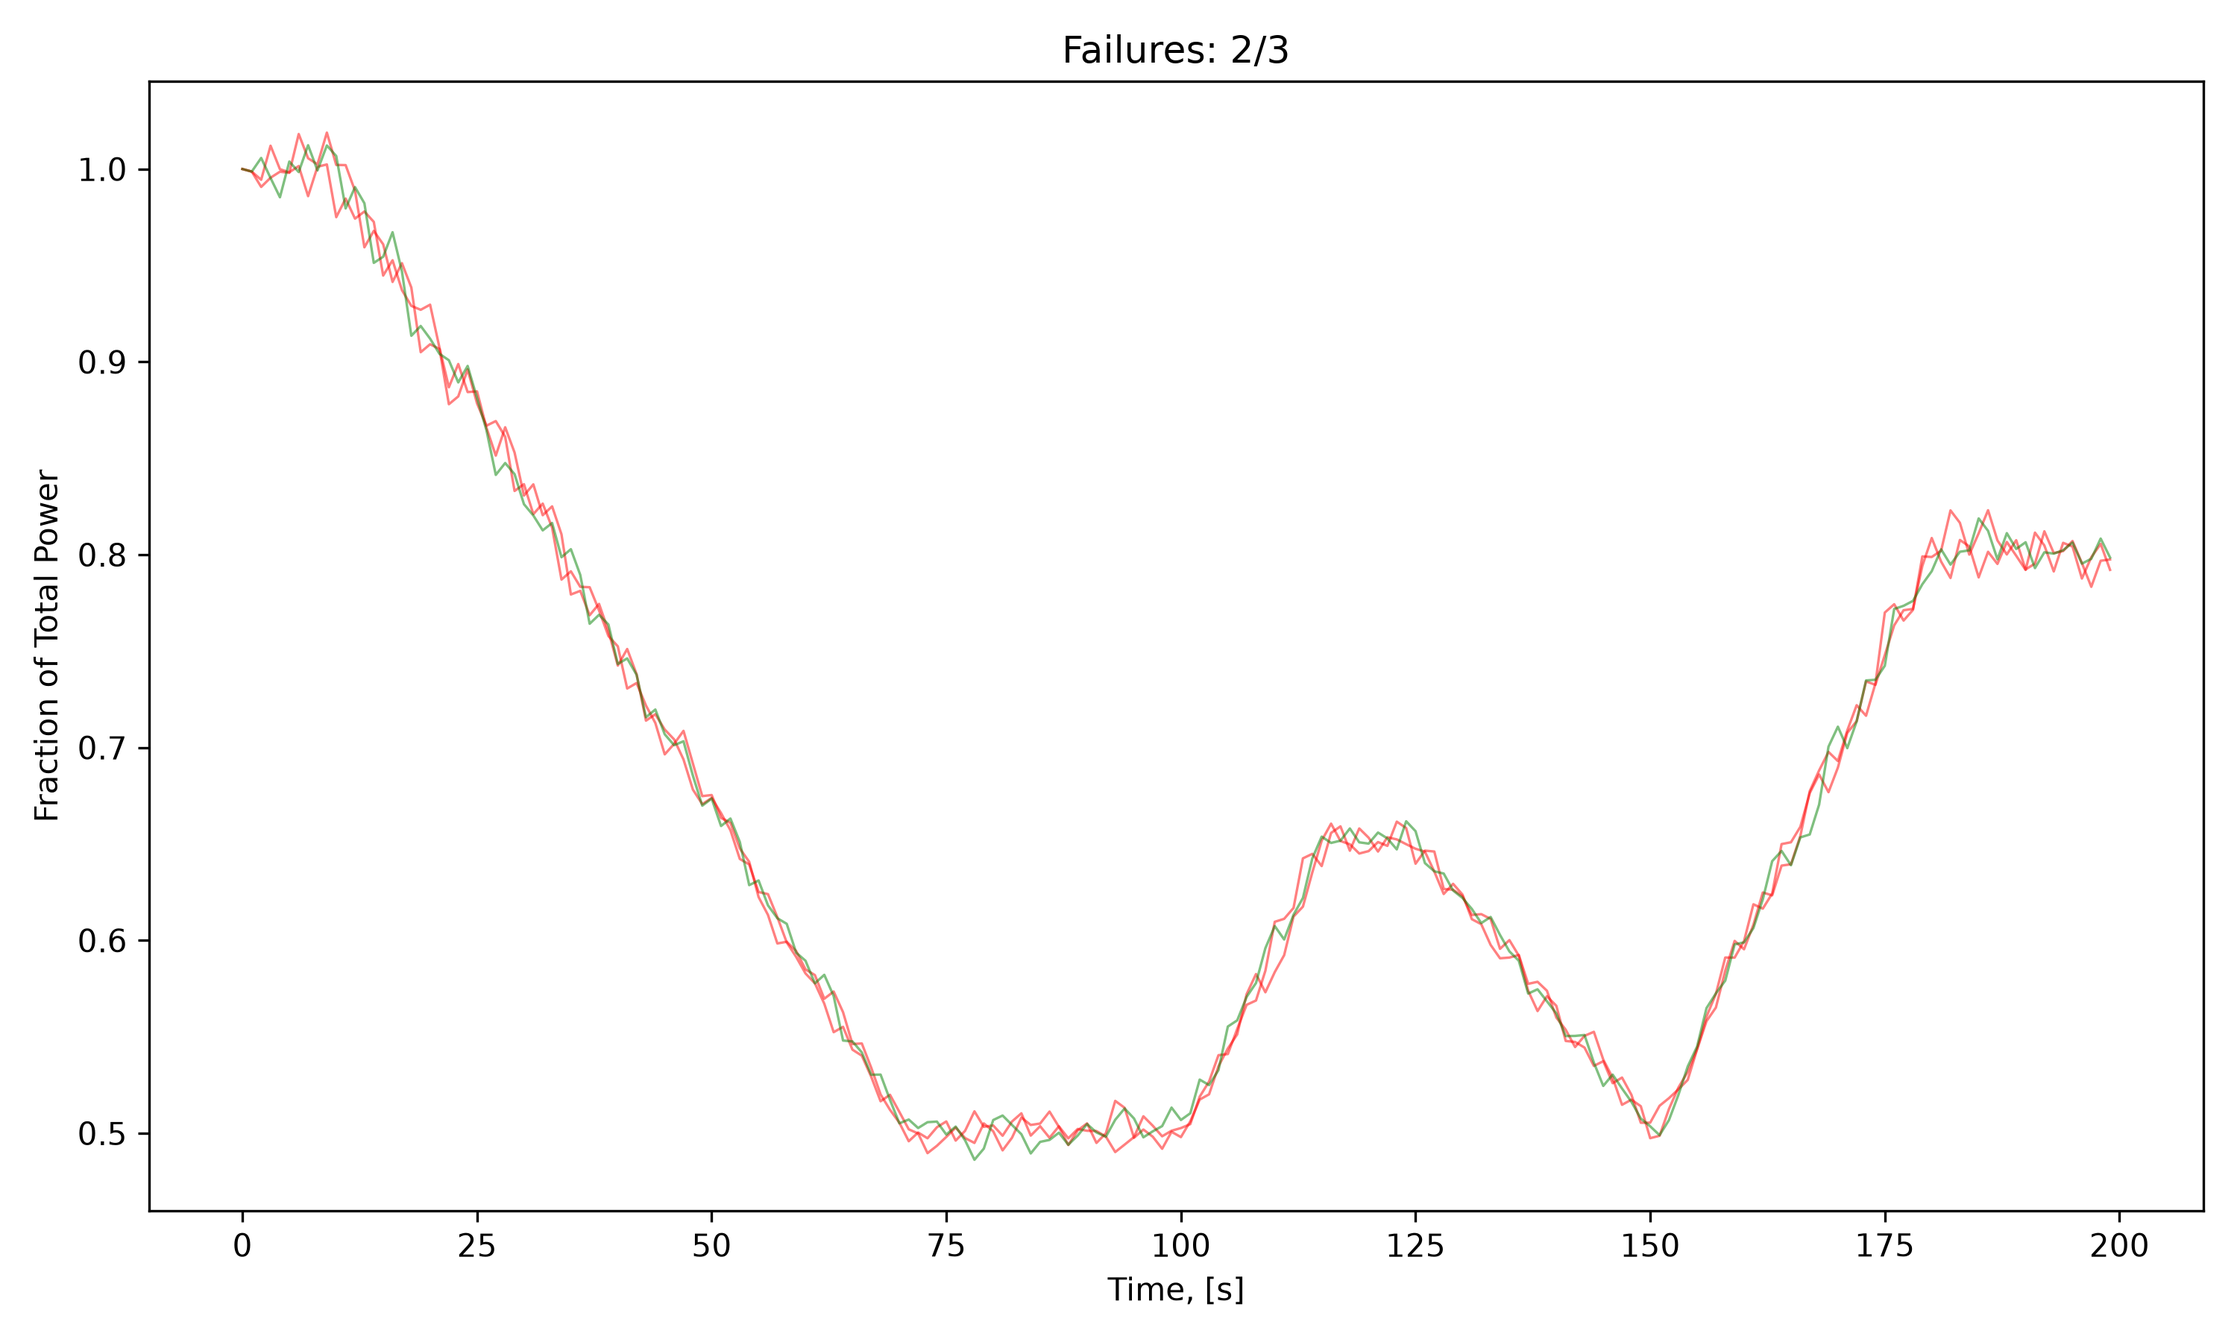
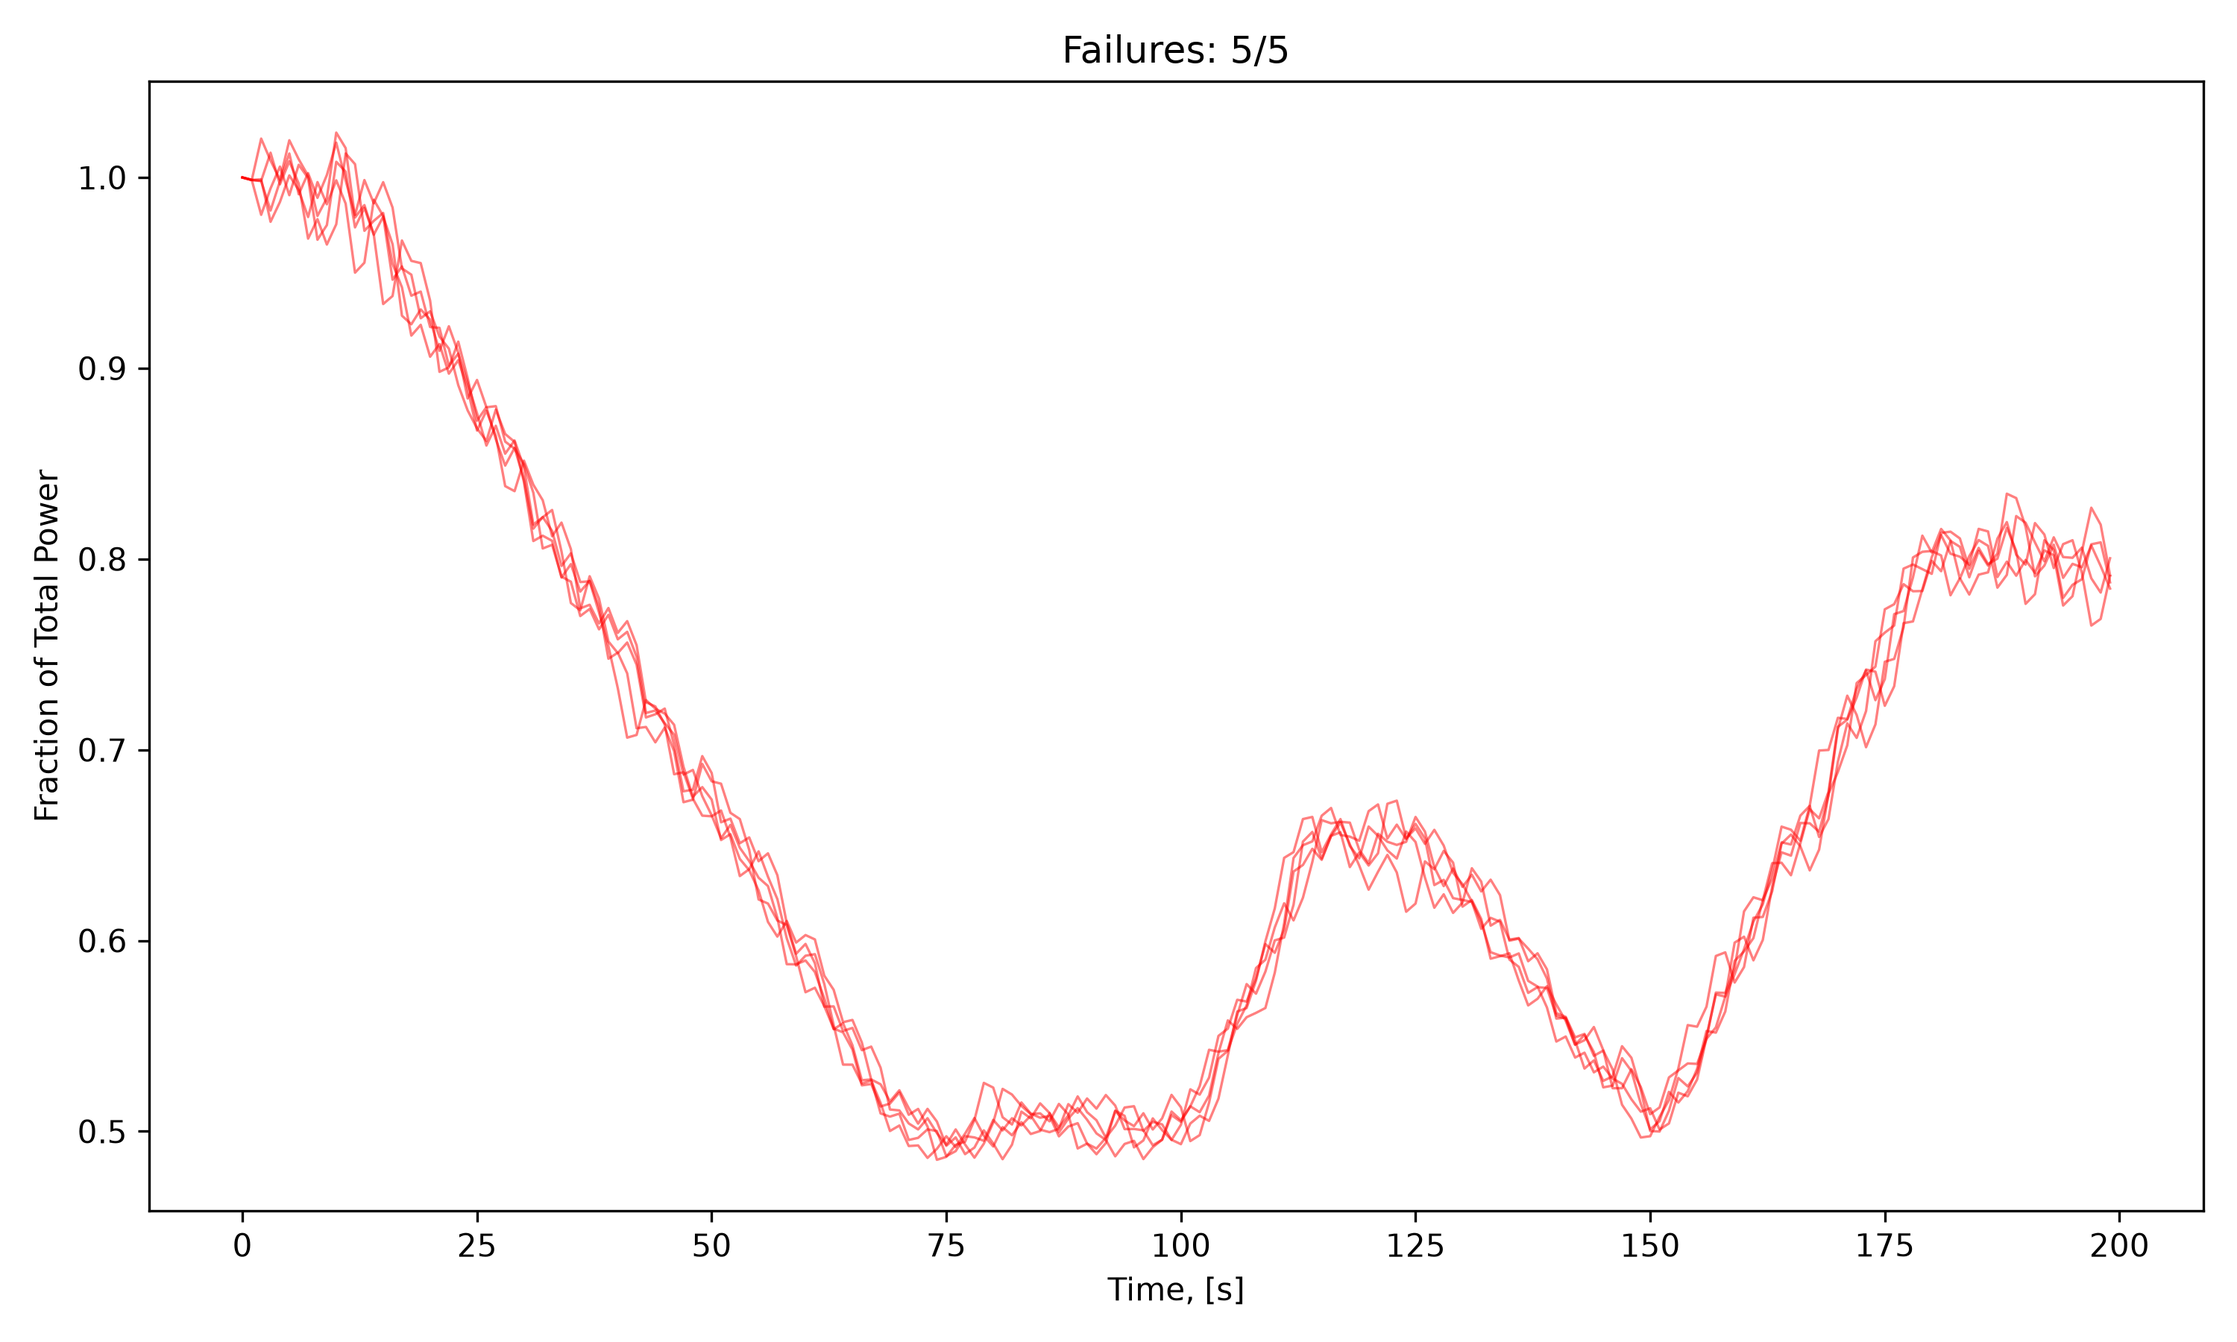
adds rollout from snapshot and fixes test_loops

diff --git a/workflow/scripts/tests/test_loops.py b/workflow/scripts/tests/test_loops.py
@@ -15,6 +15,7 @@ import env
 from scipy.interpolate import interp1d
 from functools import partial
 from env import make_undisturbed_env
+import profiles
 
 
 # ---------------------------------------------------------------------------
@@ -172,10 +173,10 @@ def test_rollout_applies_observation_noise(tmp_path):
     )
 
     seen = []
-    real_get_observation = partial(test_env._get_observation, reset=False)
-    def spy(xo):
-        obs = real_get_observation(xo)
-        seen.append((obs["p"][0], test_env._p))  # (observed, true) at this instant
+    real_get_observation = test_env._get_observation
+    def spy(xo, reset=False):
+        obs = real_get_observation(xo, reset=reset)
+        seen.append((obs["p"][0], test_env._p))
         return obs
     test_env._get_observation = spy
 
@@ -195,33 +196,111 @@ def test_test_trained_rl_orchestrates_load_run_and_metrics(tmp_path, env_kwargs)
     fake_history = pd.DataFrame({"time": [0, 1], "actual_power": [1.0, 1.0]})
     mock_disturbance_dist = MagicMock()
 
-    with patch("loops.find_latest_file") as mock_find_latest, patch(
-        "loops.sb3.PPO.load"
-    ) as mock_ppo_load, patch("loops.rollout") as mock_control_loop, patch(
-        "loops.metrics", return_value=(0.1, 0.2, 0.3, 0.4)
-    ) as mock_calc_metrics, patch(
-        "loops.pd.read_csv", return_value=fake_history
-    ) as mock_read_csv:
+    with patch("loops.load_trained_model") as mock_load_model, \
+         patch("loops.find_latest_file") as mock_find_latest, \
+         patch("loops.rollout") as mock_control_loop, \
+         patch("loops.metrics", return_value=(0.1, 0.2, 0.3, 0.4)) as mock_calc_metrics, \
+         patch("loops.pd.read_csv", return_value=fake_history) as mock_read_csv:
 
-        mock_find_latest.side_effect = [
-            tmp_path / "models" / "best_model.zip",
-            tmp_path / "run_history_001.csv",
-        ]
         mock_model = MagicMock()
-        mock_ppo_load.return_value = mock_model
+        mock_load_model.return_value = mock_model
+        mock_find_latest.return_value = tmp_path / "run_history_001.csv"
 
         result = loops.test_trained_rl(
             DummyDictEnv, load_dir, save_dir, env_kwargs, mock_disturbance_dist, save_histories=True
         )
 
-        mock_find_latest.assert_has_calls([
-            call(tmp_path / "models", pattern="*.zip"),
-            call(tmp_path, pattern="run_history*.csv"),
-        ])
-        mock_ppo_load.assert_called_once_with(
-            tmp_path / "models" / "best_model.zip", device="cpu"
+        mock_load_model.assert_called_once_with(load_dir)
+        mock_control_loop.assert_called_once_with(
+            mock_model, ANY, mock_disturbance_dist, save_histories=True
         )
-        mock_control_loop.assert_called_once_with(mock_model, ANY, mock_disturbance_dist)
+        mock_find_latest.assert_called_once_with(tmp_path, pattern="run_history*.csv")
         mock_read_csv.assert_called_once_with(tmp_path / "run_history_001.csv")
         mock_calc_metrics.assert_called_once_with(fake_history)
         assert result is fake_history
+
+# ---------------------------------------------------------------------------
+# test_rollout_from_snapshot
+# ---------------------------------------------------------------------------
+
+class StubPolicy:
+    """Deterministic policy that depends on the observation (so a wrong restored obs changes the result)."""
+
+    def predict(self, obs, deterministic=True):
+        err = float(obs["pnext"][0] - obs["p"][0]) - 2.0 * float(obs["dp"][0])
+        return np.full(8, np.clip(5 * err, -1, 1), dtype=np.float32), None
+
+
+def full_run_max_dev(env, model, dist):
+    """Reference: plain reset-to-end rollout, deviation from env.history like check_spec does."""
+    obs, _ = env.reset()
+    np.random.seed(0)
+    done = False
+    while not done:
+        action, _ = model.predict(obs, deterministic=True)
+        x = dist.sample(env.state, action)
+        obs, _, term, trunc, _ = env.step(action, x)
+        done = term or trunc
+    df = env.render(save=False)
+    max_dev = float(np.abs((df["actual_power"] - df["desired_power"]) / df["desired_power"]).max())
+    return max_dev, env.state.copy()
+
+
+def check_rollout_from_snapshot(env, model, dist, mid_step=30):
+    profile = env.profile
+    expected, final_state = full_run_max_dev(env, model, dist)
+
+    # 1) root snapshot reproduces a plain full rollout
+    env.reset()
+    snap0 = env.get_snapshot()
+    np.random.seed(0)
+    md, n = loops.rollout_from_snapshot(env, model, snap0, dist, 0)
+    assert md == pytest.approx(expected, rel=1e-6)
+    assert n == env.runtime  # one simulator step per second, dt=1
+    assert np.allclose(env.state, final_state)  # final state is sensitive to every action taken
+
+    # 2) a mid-trajectory snapshot plus start_max reproduces the same result
+    obs, _ = env.reset()
+    np.random.seed(0)
+    mid_max = 0.0
+    for _ in range(mid_step):
+        action, _ = model.predict(obs, deterministic=True)
+        obs, *_ = env.step(action, dist.sample(env.state, action))
+        print(f"PROFILE: {profile(env.time)}")
+        mid_max = max(mid_max, abs(env._p - profile(env.time)) / profile(env.time))
+    snap_mid = env.get_snapshot()
+    rng = np.random.get_state()
+    obs_back = env.set_snapshot(snap_mid)  # restore should hand back the obs saved with the snapshot
+    for k in obs:
+        assert np.array_equal(obs_back[k], obs[k]), k
+
+    np.random.set_state(rng)
+    md_mid, n_mid = loops.rollout_from_snapshot(env, model, snap_mid, dist, mid_max)
+    assert md_mid == pytest.approx(expected, rel=1e-6)
+    assert n_mid == env.runtime - mid_step
+    assert np.allclose(env.state, final_state)
+
+    # 3) determinism: same snapshot + same RNG state gives an identical result, and the snapshot is not corrupted
+    np.random.set_state(rng)
+    md_again, _ = loops.rollout_from_snapshot(env, model, snap_mid, dist, mid_max)
+    assert md_again == md_mid
+
+    # 4) a snapshot at the end of the episode does nothing
+    md_end, n_end = loops.rollout_from_snapshot(env, model, env.get_snapshot(), dist, 0.123)
+    assert (md_end, n_end) == (0.123, 0)
+
+
+def test_rollout_from_snapshot_stub(tmp_path):
+    profile = interp1d([0, 10, 70, 100, 115, 125, 150, 180, 200],
+                       [1, 1, 0.5, 0.5, 0.65, 0.65, 0.5, 0.8, 0.8])
+    holosenv = env.HolosMulti(profile=profile, episode_length=200, training=False,
+                     max_failed_drums=0, save_dir=tmp_path)
+    dist = fuzzing.DisturbanceDistribution(fuzzing.Do(0.001, 0.005), fuzzing.Da(0), fuzzing.Ds())
+    check_rollout_from_snapshot(holosenv, StubPolicy(), dist)
+
+
+def test_rollout_from_snapshot_trained(tmp_path):
+    _, env_kwargs = profiles.get_profile("test", max_failed_drums=0)
+    holosenv = env.HolosMulti(**env_kwargs, save_dir=tmp_path)
+    dist = fuzzing.DisturbanceDistribution(fuzzing.Do(0.001, 0.005), fuzzing.Da(0), fuzzing.Ds())
+    check_rollout_from_snapshot(holosenv, accessories.load_trained_model(), dist)

diff --git a/workflow/scripts/loops.py b/workflow/scripts/loops.py
@@ -26,7 +26,7 @@ from stable_baselines3.common.monitor import Monitor
 from accessories import find_latest_file, metrics
 from env import Undisturbed, make_undisturbed_env
 from functools import partial
-from accessories import check_spec
+from accessories import check_spec, percent_diff, load_trained_model
 
 
 def train_rl(env_type, save_dir, env_kwargs, total_timesteps=int(2e6), n_envs=10):
@@ -153,9 +153,7 @@ def test_trained_rl(env_type, load_dir, save_dir, env_kwargs, disturbance_distri
         DataFrame of the full run history (state/action trace) for
         the evaluated episode.
     """
-    model_folder = load_dir / "models/"
-    model_path = find_latest_file(model_folder, pattern="*.zip")
-    model = sb3.PPO.load(model_path, device="cpu")
+    model = load_trained_model(load_dir)
 
     test_env = env_type(**env_kwargs, save_dir=save_dir)
     history = rollout(model, test_env, disturbance_distribution, save_histories=save_histories)
@@ -171,23 +169,38 @@ def test_trained_rl(env_type, load_dir, save_dir, env_kwargs, disturbance_distri
         )
     return history
 
-def run_rollouts(rollout_fn, m, psi=check_spec):
-    """Runs m rollouts, save the trajectories and check spec compliance.
+# def run(env, obs, disturbance_list, trained_load_dir="train_fivemillion"):
+#     model_folder = trained_load_dir / "models/"
+#     model_path = find_latest_file(model_folder, pattern="*.zip")
+#     model = sb3.PPO.load(model_path, device="cpu")
+#     states = []
+#     for D in disturbance_list:
+#         action, _ = model.predict(obs, deterministic=True)
+#         obs, _, terminated, truncated = env.step(action, D)
+#         states.append(env.state.copy())
+#         if terminated or truncated:
+#             break
+#     return obs, np.array(states)
+
+def rollout_from_snapshot(env, model, snapshot, disturbance_distribution, max_existing_dev):
+    """Runs a rollout of the model from a snapshot for MCTS.
 
     Args:
-        rollout_fn (callable): no-arg function that runs one rollout and returns its history (pd.DataFrame)
-        m (int): number of rollouts
-        psi (callable): spec-check function taking a history DataFrame, returns bool
-
-    Returns:
-        histories (list[pd.DataFrame]), results (np.ndarray[bool]): trajectories and pass/fail per rollout
+        env (holos multi environment): _description_
+        model (sb3.PPO model object): loaded pre-trained model used on the entire rollout
+        snapshot (dict): snapshot of the environment state 
+        disturbance_distribution (Disturbance object from fuzzing.py): _description_
+        max_existing_dev (_type_): _description_
     """
-    histories = []
-    results = np.zeros(m, dtype=bool)
-
-    for i in range(m):
-        history = rollout_fn()
-        histories.append(history)
-        results[i] = psi(history)
-
-    return histories, results
+    observation = env.set_snapshot(snapshot)
+    max_dev = max_existing_dev
+    n_steps = 0
+    while env.time < env.runtime:
+        action, _ = model.predict(observation, deterministic=True)
+        x = disturbance_distribution.sample(env.state, action)
+        observation, _, terminated, truncated, _ = env.step(action, disturbance=x)
+        p_desired = float(env.profile(env.time))
+        max_dev = max(max_dev, percent_diff(env._p, p_desired))
+        n_steps += 1
+        done = terminated or truncated
+    return max_dev, n_steps

diff --git a/workflow/scripts/env.py b/workflow/scripts/env.py
@@ -116,7 +116,7 @@ class HolosMulti(gym.Env):
 
         Returns: dp, p, drum angles, pnext as a dictionary
 
-        MUST CALL THIS FUNCTION BEFORE _log_history or indexing will be off!
+        MUST CALL THIS FUNCTION BEFORE setting _last_observation or indexing will be off!
         """
         if xo["drum_angles"].shape != (8,):
             raise ValueError("Drum angle disturbance must be in the shape (8,)!")
@@ -129,7 +129,8 @@ class HolosMulti(gym.Env):
             # always assume a steady state start
             self._dp = 0
         else: 
-            self._plast = self.history[-1][1] # this is the noisy power from the last timestep
+            self._plast = self._last_observation["p"].item() # this is the noisy power from the last timestep
+            # self._plast = self.history[-1][1] # this is the noisy power from the last timestep
             # get the "observed power rate" using two noisy power readings
             self._dp = (noisy_power - self._plast) / self.dt
         # return everything in a dictionary
@@ -192,6 +193,7 @@ class HolosMulti(gym.Env):
         xo = options["xo"] if options and "xo" in options else {"dp": 0, "p": 0, "drum_angles": np.zeros(8)}
         observation = self._get_observation(xo=xo, reset=True)
         self._log_history(observation=observation, init=True)
+        self._last_observation = observation
         return observation, {}  # return empty dict for info
 
     def step(self, action, disturbance):
@@ -219,6 +221,7 @@ class HolosMulti(gym.Env):
         observation = self._get_observation(xo=disturbance.xo)
         # log the step in history
         self._log_history(observation=observation, init=False)
+        self._last_observation = observation
 
         # calculate the reward and termination criteria
         reward, terminated = self.calc_reward(
@@ -253,6 +256,42 @@ class HolosMulti(gym.Env):
             terminated = True
 
         return reward, terminated
+
+    def get_snapshot(self):
+        """Gets a snapshot of the rollout at a certain step for MCTS
+
+        Returns:
+            dict: critical state values
+        """
+        return {
+        "time": self.time,
+        "state": self.state.copy(),
+        "_p": self._p,
+        "_pnext": self._pnext,
+        "_dp": self._dp,
+        "_drum_angles": self._drum_angles.copy(),
+        "masks": self.masks.copy(),
+        "observation": {k: v.copy() for k, v in self._last_observation.items()},
+        "last_history_row": list(self.history[-1]),
+    }
+
+    def set_snapshot(self, snap):
+        """Sets environment to snapshot state
+
+        Args:
+            snap (dict): snapshot dictionary from get_snapshot
+        """
+        self.time = snap["time"]
+        self.state = snap["state"].copy()
+        self._p = snap["_p"]
+        self._pnext = snap["_pnext"]
+        self._dp = snap["_dp"]
+        self._drum_angles = snap["_drum_angles"].copy()
+        self.masks = snap["masks"].copy()
+        self.history = [list(snap["last_history_row"])]
+        self._last_observation = {k: v.copy() for k, v in snap["observation"].items()}
+        # re-generate the observation dict here to prevent future corruptions from modifying an attribute
+        return {k: v.copy() for k, v in snap["observation"].items()}
 
     def render(self, save=True):
         """Converts the history list of lists into a dataframe."""

diff --git a/workflow/scripts/accessories.py b/workflow/scripts/accessories.py
@@ -2,7 +2,7 @@ import numpy as np
 import pandas as pd
 from pathlib import Path
 import os
-
+import stable_baselines3 as sb3
 
 def scale(real_value, type):
     """Takes a value in real space and converts it to gym space
@@ -154,3 +154,22 @@ def check_spec(history):
         (history["actual_power"] - history["desired_power"]) / history["desired_power"]
     )
     return (pct_dev < 0.03).all()
+
+def percent_diff(ptrue, pdesired):
+    return abs(ptrue - pdesired)/pdesired
+
+def load_trained_model(load_dir="train_fivemillion"):
+    """Loads a trained model
+
+    Args:
+        load_dir (str): Name of folder where models dir is 
+
+    Returns:
+        sb3 model
+    """
+    model_folder = "runs" / Path(load_dir) / "models/"
+    model_path = find_latest_file(model_folder, pattern="*.zip")
+    model = sb3.PPO.load(model_path, device="cpu")
+    return model
+
+# check an operational spec on the drums!!

diff --git a/workflow/scripts/main.py b/workflow/scripts/main.py
@@ -50,7 +50,7 @@ def run_rollouts(test_profile, train_name, m, psi=check_spec):
 
     # set up disturbance distribution for the test
     disturbance_dist = fuzzing.DisturbanceDistribution(
-                        Do=fuzzing.Do(sigma_p=0.005, sigma_drum=0.005),
+                        Do=fuzzing.Do(sigma_p=0.01, sigma_drum=0.005),
                         Da=fuzzing.Da(sigma_dtheta=0),
                         Ds=fuzzing.Ds(),
                     )
@@ -70,10 +70,11 @@ def run_rollouts(test_profile, train_name, m, psi=check_spec):
 
     return histories, results
 
+
 if __name__ == "__main__":
     run_rollouts(
         test_profile="test",
         train_name="train_fivemillion",
-        m=3,
+        m=5,
     )
     # run_demo()

diff --git a/workflow/scripts/mcts.py b/workflow/scripts/mcts.py
@@ -1,0 +1,20 @@
+import numpy as np
+import pandas as pd
+from accessories import load_trained_model
+
+def Q(max_deviation):
+    failure_threshold = 0.05
+    return -1*max_deviation/failure_threshold
+
+class MCTSNode:
+    def __init__(self, N, Q, path_max, state_snapshot, last_obs, parent_node, edge, children, path):
+        self.N = N
+        self.Q = Q
+        self.path_max
+        return
+
+
+
+if __name__ == "__main__":
+    model = load_trained_model(load_dir="train_fivemillion")
+    
